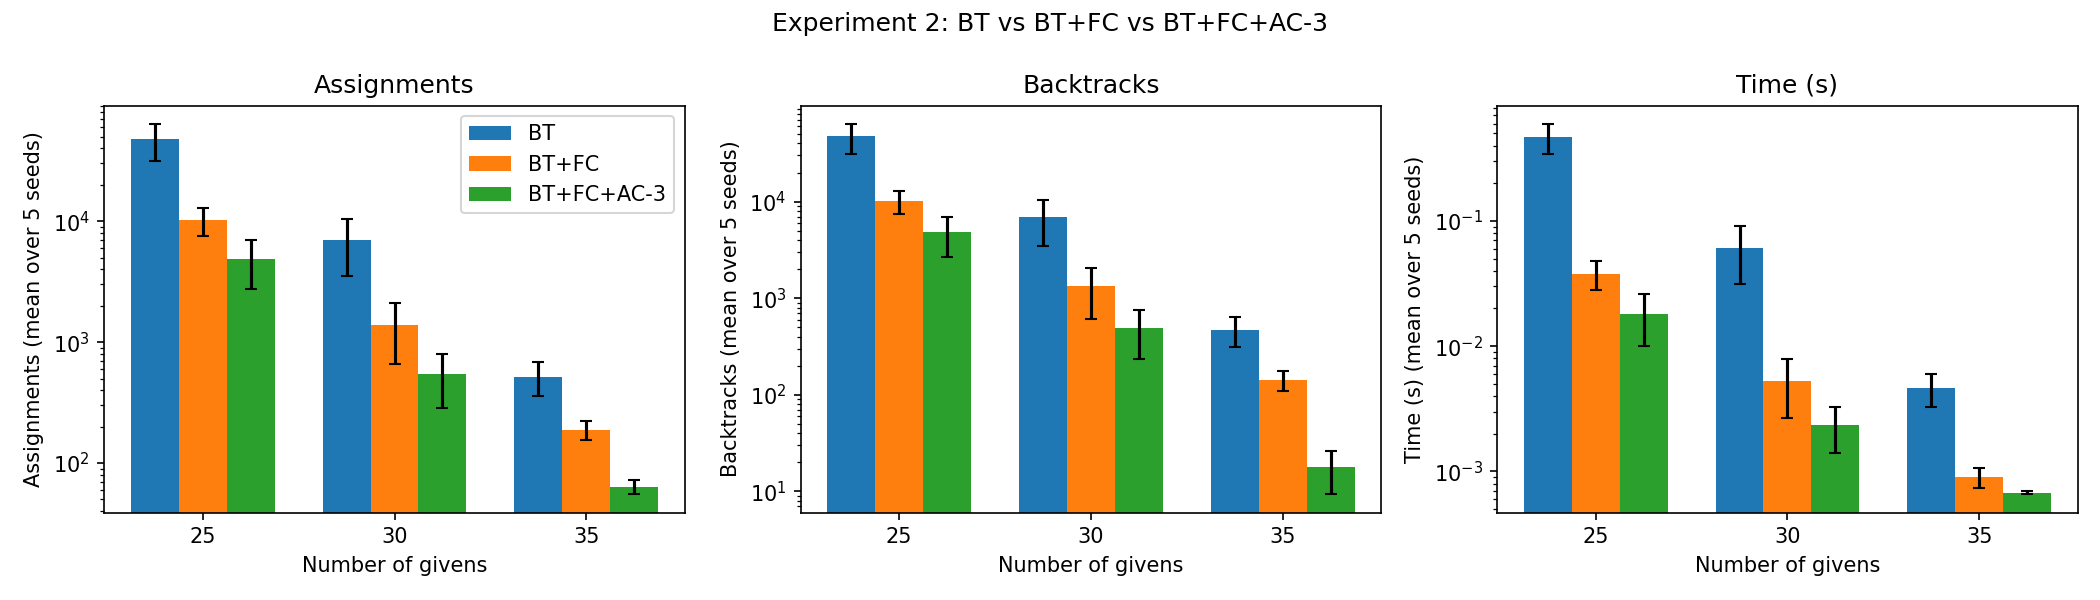
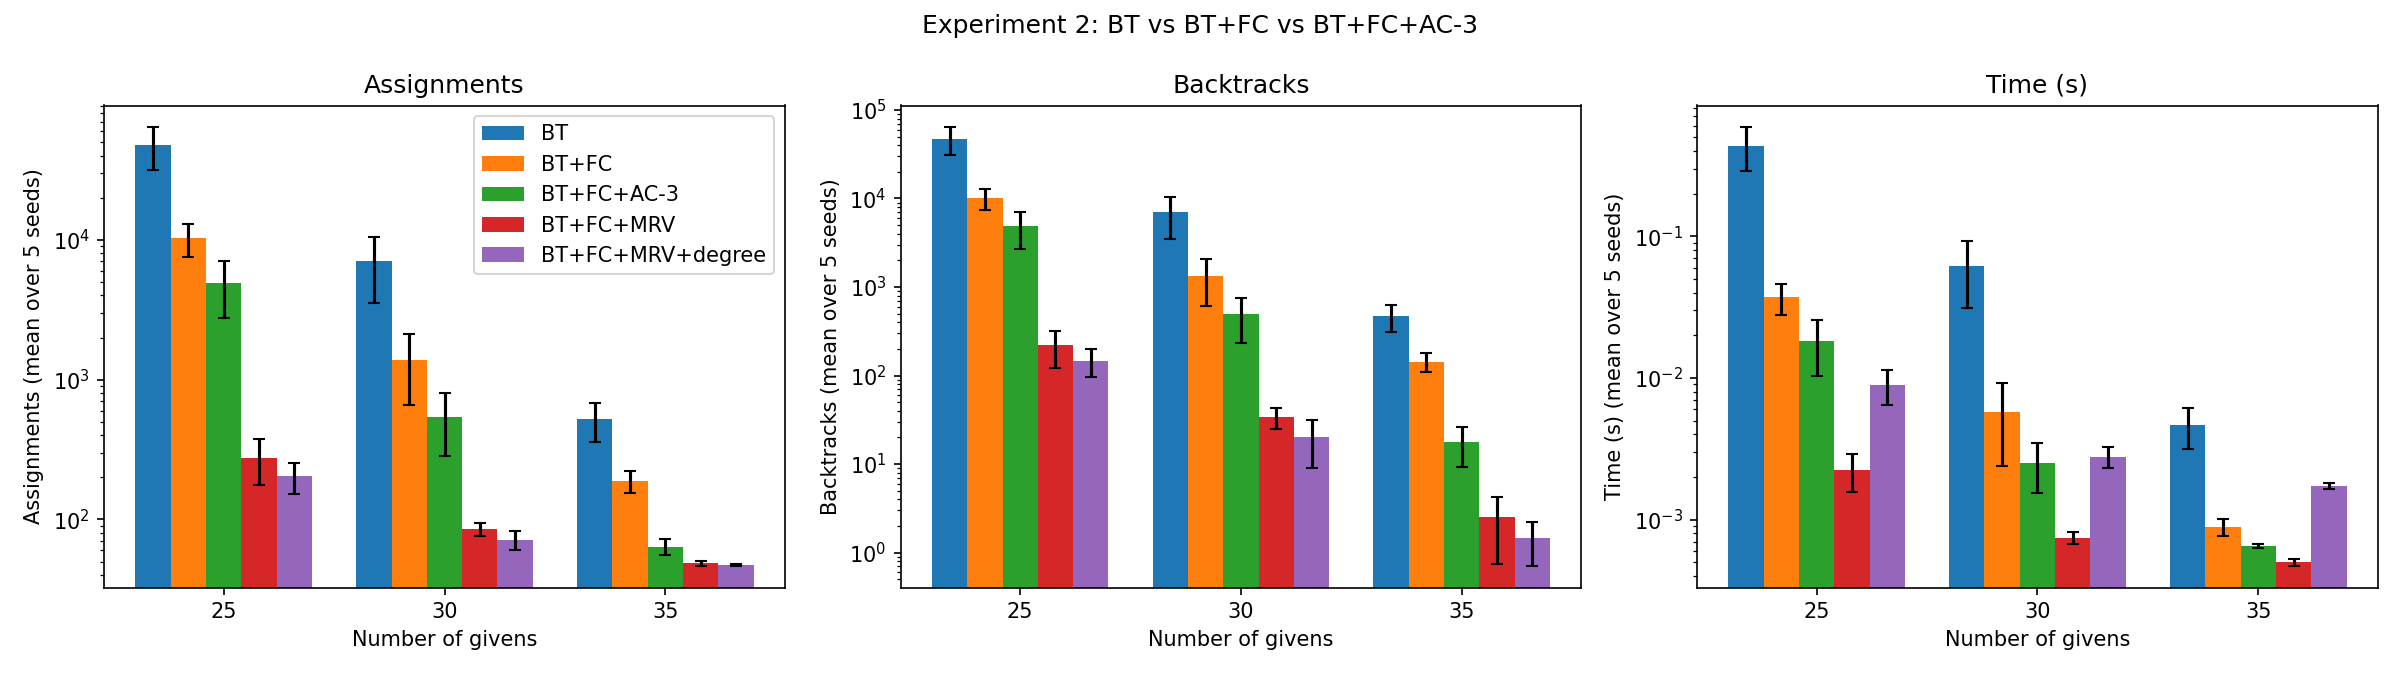
Experiment 2: MRV and degree rows

Changed region(s): [[0.0, 0.09, 0.9905, 0.96], [0.3714, 0.0, 0.619, 0.06], [0.1238, 0.93, 0.2476, 0.96]]

diff --git a/run_experiment2.py b/run_experiment2.py
@@ -34,15 +34,15 @@ print(table)
 metrics = [("assignments", "Assignments"),
            ("backtracks", "Backtracks"),
            ("time_s", "Time (s)")]
-fig, axes = plt.subplots(1, 3, figsize=(14, 4))
-width = 0.25
+fig, axes = plt.subplots(1, 3, figsize=(16, 4.5))
+width = 0.16
 for ax, (key, label) in zip(axes, metrics):
     for k, name in enumerate(CONFIGS):
         means = [res[g][name][key].mean() for g in config.GIVENS_LEVELS]
         stds = [res[g][name][key].std(ddof=1) for g in config.GIVENS_LEVELS]
         ax.bar(np.arange(3) + k * width, means, width,
                yerr=stds, capsize=3, label=name)
-    ax.set_xticks(np.arange(3) + width)
+    ax.set_xticks(np.arange(3) + 2*width)
     ax.set_xticklabels([str(g) for g in config.GIVENS_LEVELS])
     ax.set_xlabel("Number of givens")
     ax.set_ylabel(f"{label} (mean over 5 seeds)")

diff --git a/src/eval/benchmark.py b/src/eval/benchmark.py
@@ -4,9 +4,12 @@ import config
 from src.csp.solver import solve
 
 CONFIGS = {
-    "BT":          dict(use_fc=False, use_mrv=False),
-    "BT+FC":       dict(use_fc=True,  use_mrv=False),
-    "BT+FC+AC-3":  dict(use_fc=True,  use_mrv=False, use_ac3=True),
+    "BT":                 dict(use_fc=False, use_mrv=False),
+    "BT+FC":              dict(use_fc=True,  use_mrv=False),
+    "BT+FC+AC-3":         dict(use_fc=True,  use_mrv=False, use_ac3=True),
+    "BT+FC+MRV":          dict(use_fc=True,  use_mrv=True),
+    "BT+FC+MRV+degree":   dict(use_fc=True,  use_mrv=True, use_degree=True),
+    "BT+FC+AC-3+MRV":     dict(use_fc=True, use_mrv=True, use_ac3=True),
 }
 CAP = 500_000
 

diff --git a/results/experiment2_table.md b/results/experiment2_table.md
@@ -1,13 +1,19 @@
 | Givens | Method | Assignments (mean ± std) | Backtracks (mean ± std) | Time s (mean ± std) | Capped |
 |---|---|---|---|---|---|
-| 25 | BT | 47484.1 ± 16126.6 | 47428.7 ± 16127.3 | 0.4686 ± 0.1260 | 2 |
-| 25 | BT+FC | 10223.4 ± 2687.4 | 10167.4 ± 2687.4 | 0.0378 ± 0.0097 | 0 |
-| 25 | BT+FC+AC-3 | 4885.3 ± 2132.8 | 4829.3 ± 2132.8 | 0.0179 ± 0.0080 | 0 |
-| 30 | BT | 6998.1 ± 3467.7 | 6947.1 ± 3467.7 | 0.0613 ± 0.0298 | 0 |
-| 30 | BT+FC | 1383.8 ± 725.7 | 1332.8 ± 725.7 | 0.0053 ± 0.0026 | 0 |
-| 30 | BT+FC+AC-3 | 543.7 ± 259.5 | 492.7 ± 259.5 | 0.0023 ± 0.0009 | 0 |
-| 35 | BT | 518.7 ± 160.6 | 472.7 ± 160.6 | 0.0046 ± 0.0013 | 0 |
-| 35 | BT+FC | 189.1 ± 34.5 | 143.1 ± 34.5 | 0.0009 ± 0.0002 | 0 |
+| 25 | BT | 47484.1 ± 16126.6 | 47428.7 ± 16127.3 | 0.4363 ± 0.1495 | 2 |
+| 25 | BT+FC | 10223.4 ± 2687.4 | 10167.4 ± 2687.4 | 0.0371 ± 0.0091 | 0 |
+| 25 | BT+FC+AC-3 | 4885.3 ± 2132.8 | 4829.3 ± 2132.8 | 0.0181 ± 0.0077 | 0 |
+| 25 | BT+FC+MRV | 277.3 ± 100.5 | 221.3 ± 100.5 | 0.0022 ± 0.0007 | 0 |
+| 25 | BT+FC+MRV+degree | 203.0 ± 51.4 | 147.0 ± 51.4 | 0.0089 ± 0.0025 | 0 |
+| 30 | BT | 6998.1 ± 3467.7 | 6947.1 ± 3467.7 | 0.0615 ± 0.0305 | 0 |
+| 30 | BT+FC | 1383.8 ± 725.7 | 1332.8 ± 725.7 | 0.0058 ± 0.0034 | 0 |
+| 30 | BT+FC+AC-3 | 543.7 ± 259.5 | 492.7 ± 259.5 | 0.0025 ± 0.0010 | 0 |
+| 30 | BT+FC+MRV | 84.9 ± 9.4 | 33.9 ± 9.4 | 0.0007 ± 0.0001 | 0 |
+| 30 | BT+FC+MRV+degree | 71.3 ± 11.2 | 20.3 ± 11.2 | 0.0028 ± 0.0005 | 0 |
+| 35 | BT | 518.7 ± 160.6 | 472.7 ± 160.6 | 0.0046 ± 0.0015 | 0 |
+| 35 | BT+FC | 189.1 ± 34.5 | 143.1 ± 34.5 | 0.0009 ± 0.0001 | 0 |
 | 35 | BT+FC+AC-3 | 63.9 ± 8.5 | 17.9 ± 8.5 | 0.0007 ± 0.0000 | 0 |
+| 35 | BT+FC+MRV | 48.5 ± 1.7 | 2.5 ± 1.7 | 0.0005 ± 0.0000 | 0 |
+| 35 | BT+FC+MRV+degree | 47.5 ± 0.7 | 1.4 ± 0.7 | 0.0017 ± 0.0001 | 0 |
 
-Note: runs are capped at 500,000 assignments. 2 of 900 runs hit the cap (see the Capped column); the means for those rows are therefore lower bounds. Std is the sample std across 5 seed groups.
+Note: runs are capped at 500,000 assignments. 2 of 1500 runs hit the cap (see the Capped column); the means for those rows are therefore lower bounds. Std is the sample std across 5 seed groups.
